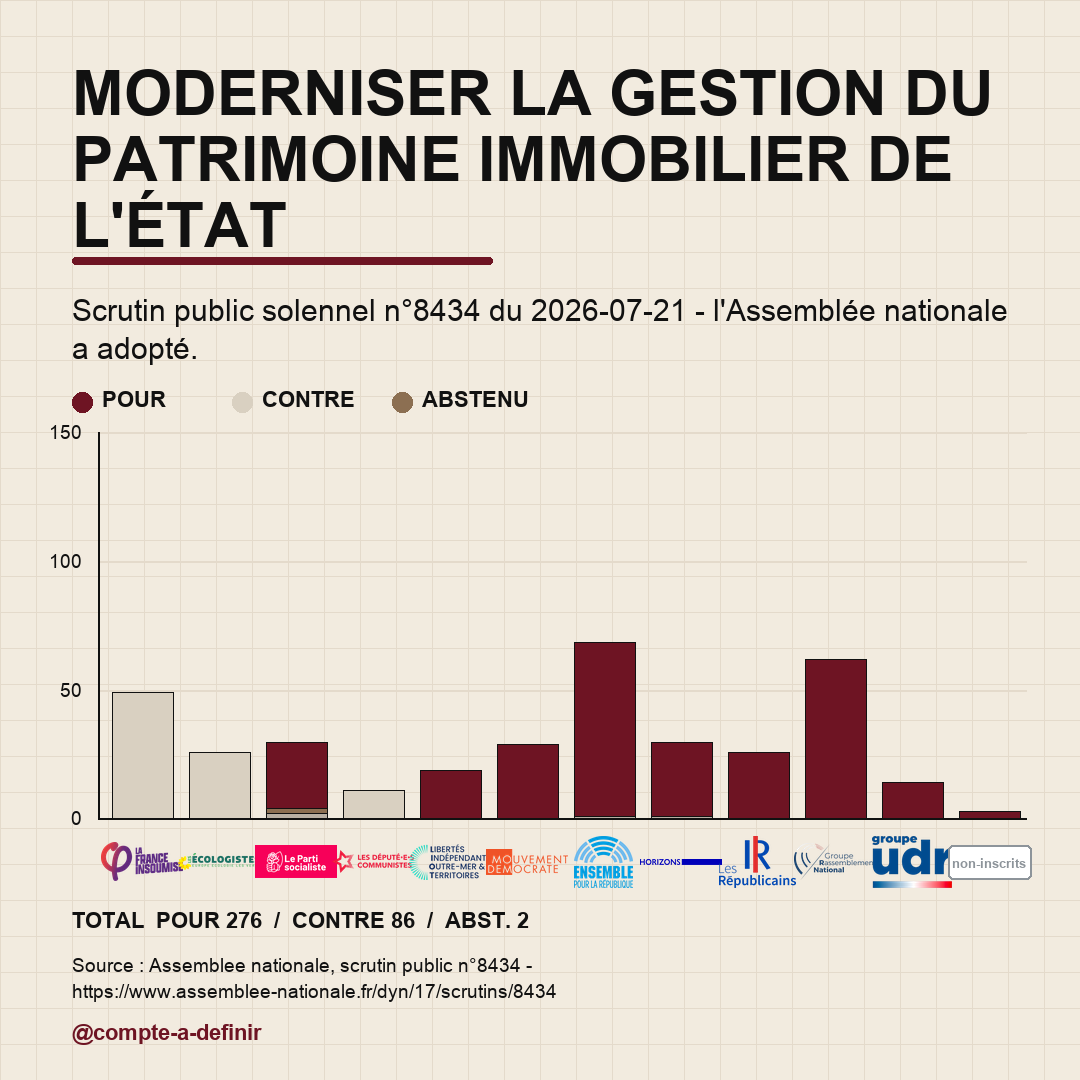
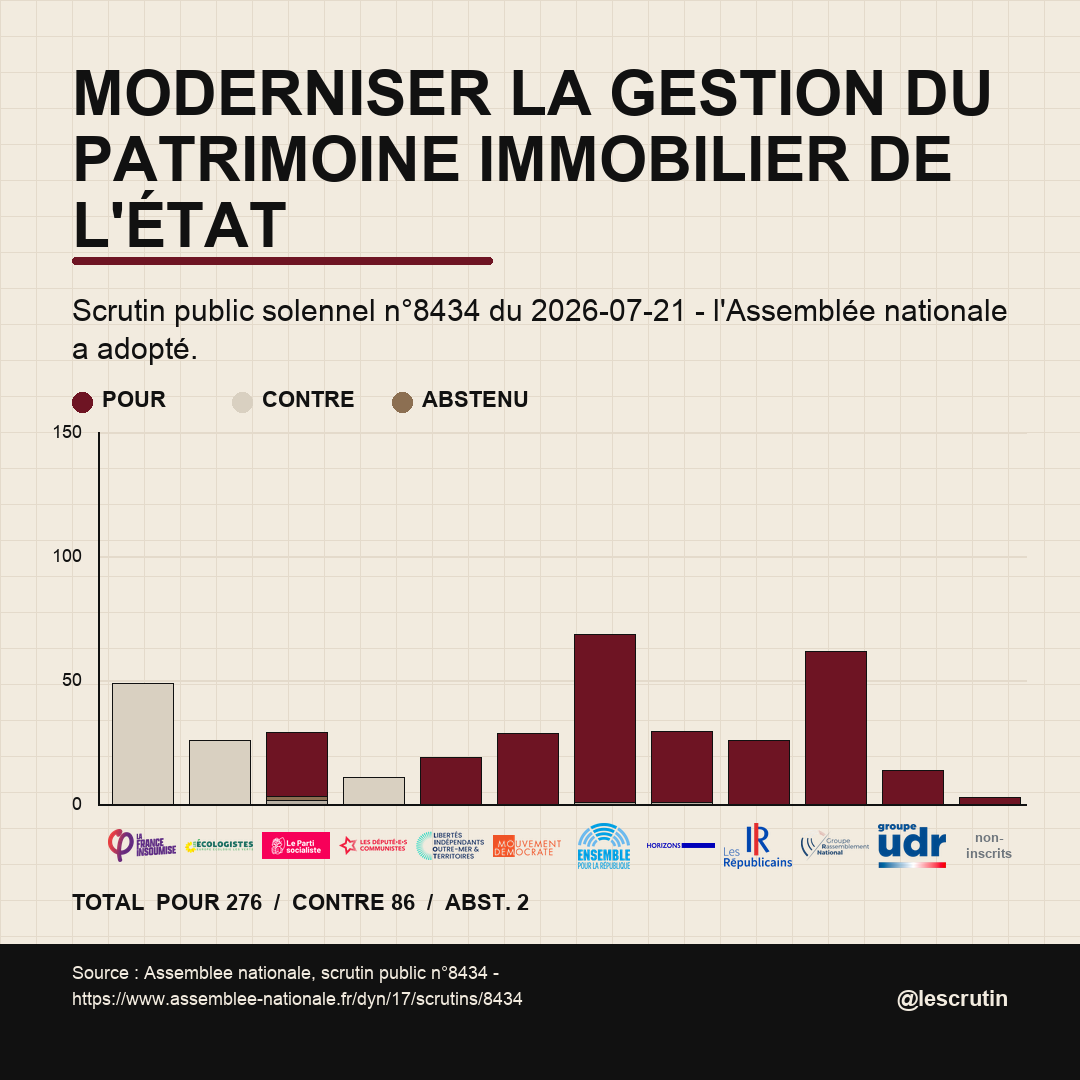
Polish card layout and verify public image before publishing

diff --git a/src/assemblee_votes/visual.py b/src/assemblee_votes/visual.py
@@ -107,6 +107,21 @@ def _draw_logo_badge(
     max_w: int,
     max_h: int,
 ) -> None:
+    if sigle == "non-inscrits":
+        font = _fit_font(draw, "inscrits", max_w - 8, 13, bold=True)
+        line_1 = "non-"
+        line_2 = "inscrits"
+        y0 = center_y - 16
+        for offset, line in enumerate((line_1, line_2)):
+            bbox = draw.textbbox((0, 0), line, font=font)
+            draw.text(
+                (center_x - (bbox[2] - bbox[0]) / 2, y0 + offset * 16),
+                line,
+                fill="#6F767D",
+                font=font,
+            )
+        return
+
     logo = _load_logo(sigle)
     if logo:
         _paste_contained(img, logo, (center_x - max_w // 2, center_y - max_h // 2, center_x + max_w // 2, center_y + max_h // 2))
@@ -142,7 +157,7 @@ def draw_card(scrutin: dict[str, Any], output: str | Path, config_path: str | Pa
     title_font = _font(62, bold=True)
     subtitle_font = _font(30)
     small_font = _font(22, bold=True)
-    footer_font = _font(19)
+    footer_font = _font(18)
 
     # Paper-like grid.
     for x in range(0, SIZE, 36):
@@ -174,7 +189,7 @@ def draw_card(scrutin: dict[str, Any], output: str | Path, config_path: str | Pa
         legend_x += 160
 
     chart_top = 432
-    chart_bottom = 818
+    chart_bottom = 804
     axis_x = 98
     chart_left = 112
     chart_right = SIZE - 54
@@ -216,22 +231,26 @@ def draw_card(scrutin: dict[str, Any], output: str | Path, config_path: str | Pa
             group_config_by_sigle,
             group["sigle"],
             center_x=int(x0 + bar_width / 2),
-            center_y=chart_bottom + 44,
-            max_w=bar_width + gap + 6,
-            max_h=52,
+            center_y=chart_bottom + 42,
+            max_w=max(42, min(70, bar_width + gap - 8)),
+            max_h=46,
         )
 
     total_line = (
         f"TOTAL  POUR {scrutin['totals']['pour']}  /  CONTRE {scrutin['totals']['contre']}  /  "
         f"ABST. {scrutin['totals']['abstention']}"
     )
-    draw.text((MARGIN, 908), total_line, fill=layout["text"], font=small_font)
+    draw.text((MARGIN, 890), total_line, fill=layout["text"], font=small_font)
+
+    footer_top = 944
+    draw.rectangle((0, footer_top, SIZE, SIZE), fill="#111111")
     footer = f"Source : Assemblee nationale, scrutin public n°{scrutin['numero']} - {scrutin['source_url']}"
-    footer_y = 954
-    for line in _wrap(draw, footer, footer_font, SIZE - 2 * MARGIN, 2):
-        draw.text((MARGIN, footer_y), line, fill=layout["text"], font=footer_font)
+    footer_y = footer_top + 18
+    for line in _wrap(draw, footer, footer_font, SIZE - 2 * MARGIN - 180, 2):
+        draw.text((MARGIN, footer_y), line, fill=layout["background"], font=footer_font)
         footer_y += 26
-    draw.text((MARGIN, 1020), config.account_handle, fill=colors["pour"], font=small_font)
+    handle_w = _text_width(draw, config.account_handle, small_font)
+    draw.text((SIZE - MARGIN - handle_w, footer_top + 42), config.account_handle, fill=layout["background"], font=small_font)
 
     output = Path(output)
     output.parent.mkdir(parents=True, exist_ok=True)

diff --git a/publish_instagram.py b/publish_instagram.py
@@ -1,6 +1,7 @@
 from __future__ import annotations
 
 import argparse
+import hashlib
 import json
 import os
 import time
@@ -47,6 +48,34 @@ def _get_json(url: str, params: dict[str, str], access_token: str) -> dict[str, 
     except urllib.error.HTTPError as exc:
         details = exc.read().decode("utf-8", errors="replace")
         raise RuntimeError(f"Erreur Meta API {exc.code}: {details}") from exc
+
+
+def _download_bytes(url: str) -> bytes:
+    req = urllib.request.Request(url, method="GET", headers={"User-Agent": "vote-card-bot/0.1"})
+    try:
+        with urllib.request.urlopen(req, timeout=60) as response:
+            return response.read()
+    except urllib.error.HTTPError as exc:
+        details = exc.read().decode("utf-8", errors="replace")
+        raise RuntimeError(f"Impossible de lire l'image publique {url}: {details}") from exc
+
+
+def _sha256_bytes(data: bytes) -> str:
+    return hashlib.sha256(data).hexdigest()
+
+
+def _sha256_file(path: str | Path) -> str:
+    return _sha256_bytes(Path(path).read_bytes())
+
+
+def _verify_public_image_matches_draft(draft: dict[str, Any], image_url: str) -> None:
+    local_hash = _sha256_file(draft["image_path"])
+    public_hash = _sha256_bytes(_download_bytes(image_url))
+    if local_hash != public_hash:
+        raise SystemExit(
+            "Publication bloquee: l'image publique ne correspond pas a l'image locale validee. "
+            "Regenerer, stage_public_asset.py, git push, attendre GitHub Actions vert, puis retester."
+        )
 
 
 def _load_draft(path: str | Path) -> dict[str, Any]:
@@ -150,9 +179,10 @@ def main() -> None:
             "Publication bloquee: la verification source a echoue: "
             + "; ".join(verification.errors)
         )
+    _verify_public_image_matches_draft(draft, args.image_url)
 
     if args.dry_run:
-        print("Dry-run OK: brouillon approuve, source verifiee, publication non envoyee.")
+        print("Dry-run OK: brouillon approuve, source verifiee, image publique synchronisee, publication non envoyee.")
         print(f"Endpoint Meta: {GRAPH_BASE_URL}")
         print(f"Image publique: {args.image_url}")
         print(f"Caption:\n{draft['caption']}")
